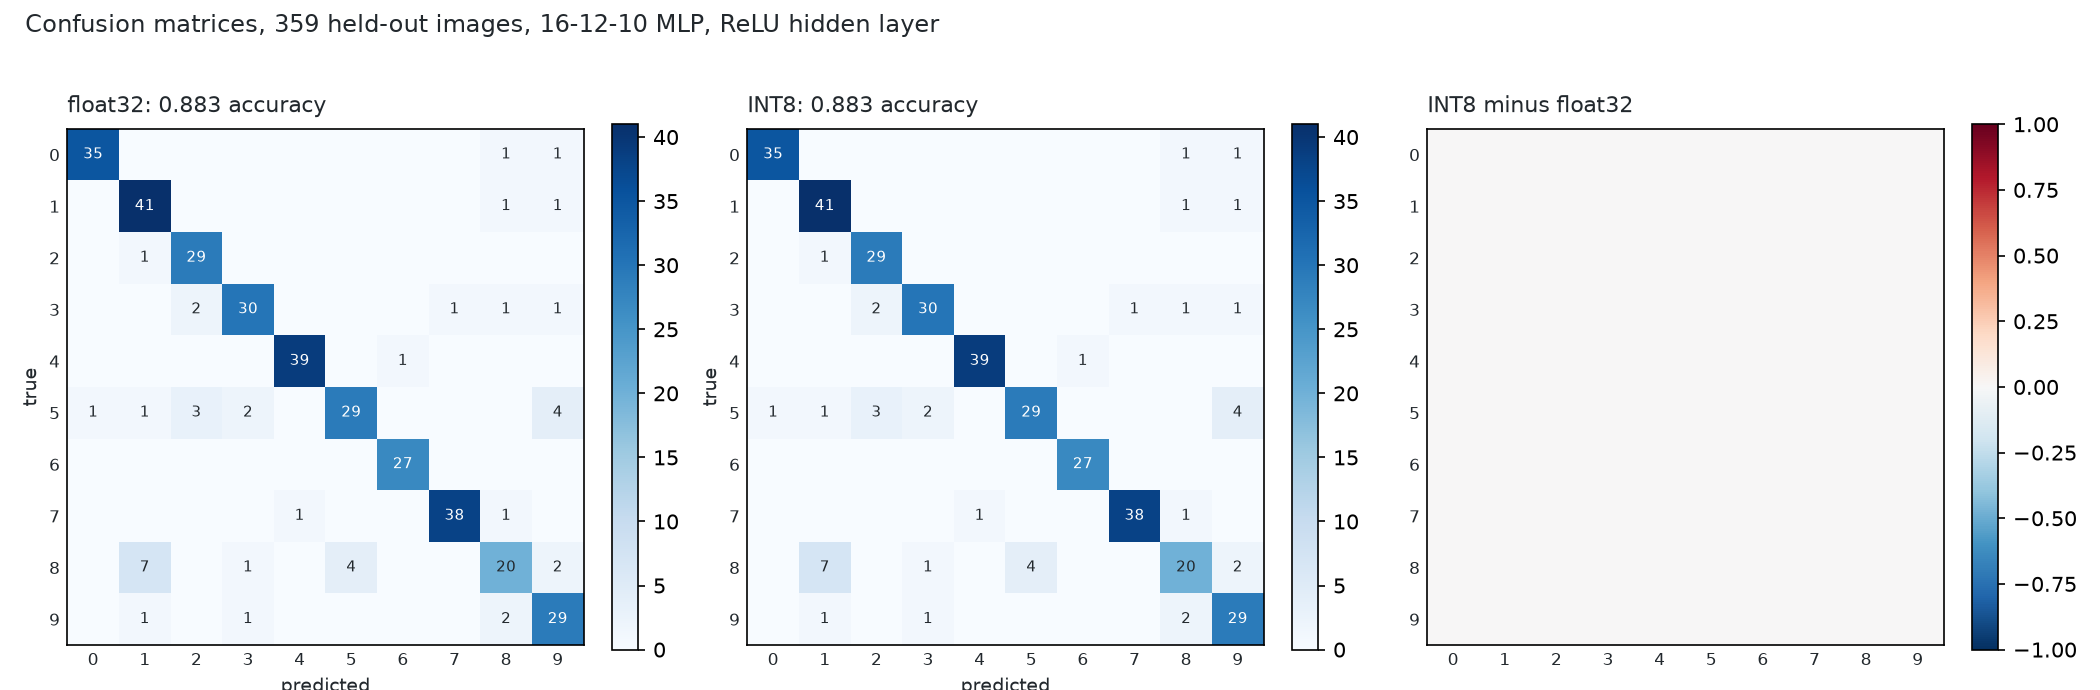
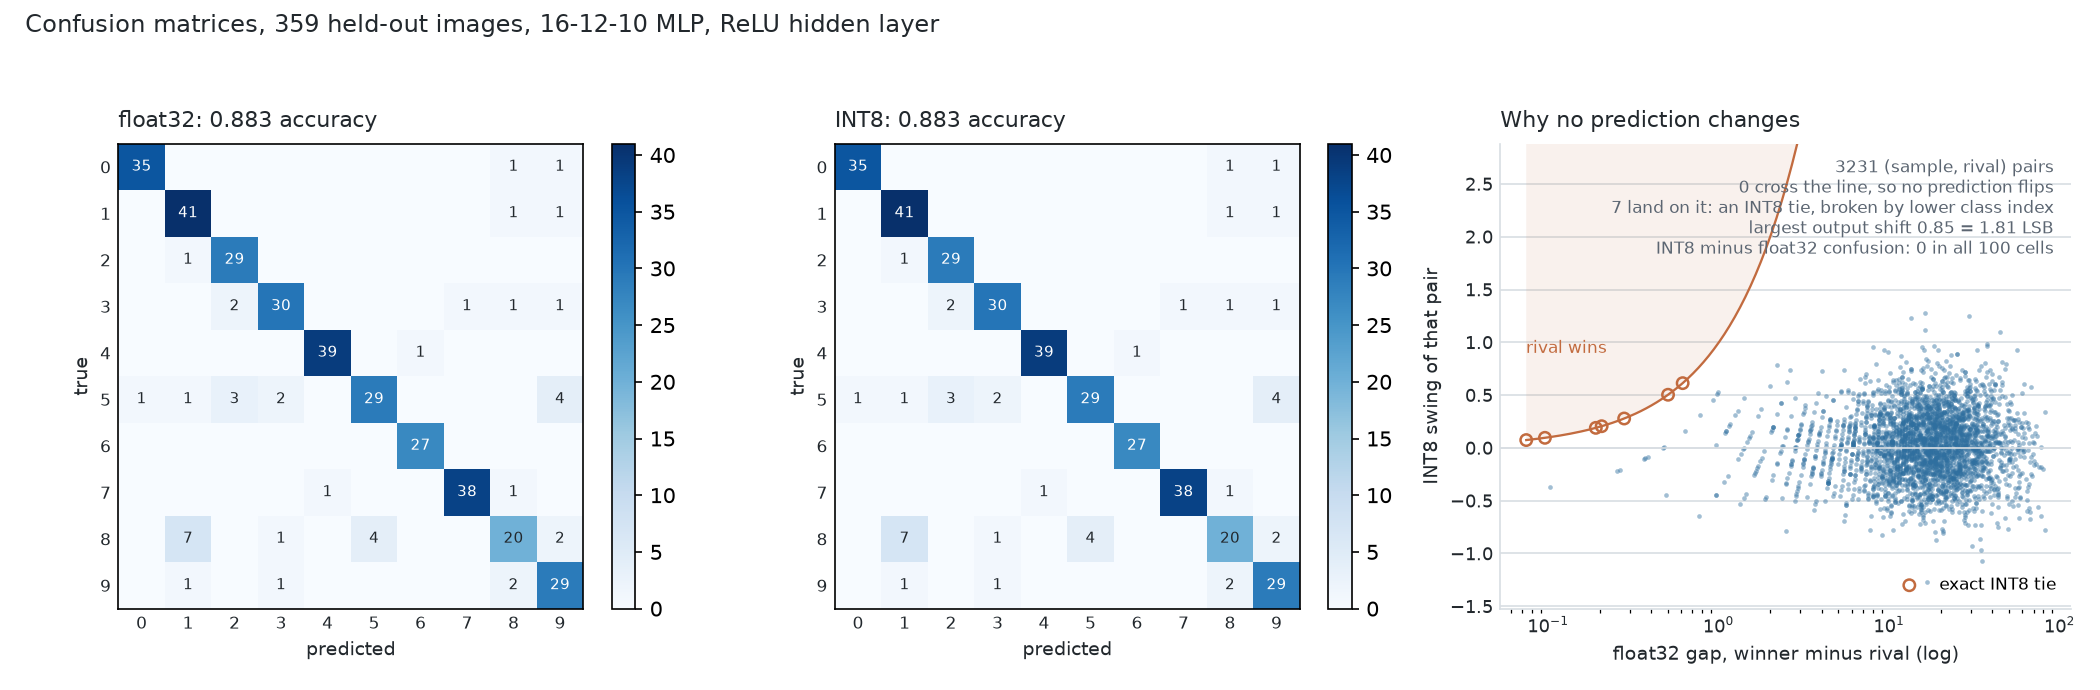
fix(figures): replace the blank confusion-difference panel with the mechanism
The third panel plotted ci - cf as a heat map. That matrix is exactly
zero, because quantization changes no prediction on any of the 359
held-out images, so lim = max(1, 0) pinned the scale to -1..+1, RdBu_r
painted every cell its neutral mid-tone, and the label loop was gated on
if diff[i, j], which is false everywhere. The panel rendered as an empty
grey grid next to two populated ones and read as a broken figure, which
undersold the result it was meant to show.

It now plots the decision margin instead: for each of the 3231 (sample,
rival class) pairs, the float32 gap against the adverse swing
quantization applies to that pair. A prediction holds while the swing
stays under the gap. Measured from the committed model, whose outputs the
RTL reproduces bit-exactly: the output layer moves by up to 0.85, 1.81
LSB of the 0.468 output scale, and no pair crosses the line.

Seven land exactly on it, which the old panel could not have shown.
Those samples tie on the INT8 code, so the winner comes from argmax
taking the lowest class index rather than from arithmetic. It agrees with
float32 in all seven; the opposite tie-break gives 0.8858 rather than
0.8830. The README now says so next to the delta-of-zero claim.

diff --git a/scripts/plot_demo.py b/scripts/plot_demo.py
@@ -4,7 +4,9 @@
 """Draw the quantization figures from the demo model and the RTL trace.
 
 Produces:
-  docs/img/demo_confusion.png    float32 and INT8 confusion matrices side by side
+  docs/img/demo_confusion.png    float32 and INT8 confusion matrices side by
+                                 side, plus the decision margins that explain
+                                 why the two agree
   docs/img/demo_per_class.png    per-class accuracy, float32 against INT8
   docs/img/demo_histograms.png   activation distributions before and after
                                  quantization, for the input, the hidden layer
@@ -53,7 +55,76 @@ def style(ax, title: str, xlabel: str = "", ylabel: str = "") -> None:
     ax.tick_params(colors=C_TEXT, labelsize=8.5, length=0)
 
 
-def plot_confusion(res) -> None:
+def decision_margin(z):
+    """Per (sample, rival class) pair: the float32 gap and what quantization
+    does to it.
+
+    For the float32 winner `t` and any rival `j`, the INT8 network changes the
+    prediction exactly when the dequantized output of `j` overtakes `t`, that
+    is when `pert[j] - pert[t]` exceeds the float32 gap `logit[t] - logit[j]`.
+    Returns the gap, that adverse swing, and the per-class shift.
+    """
+    lg = z["logits_f"]
+    deq = (z["q_o_ref"].astype(float) - float(z["zp_o"])) * float(z["s_o"])
+    pert = deq - lg
+    top1 = lg.argmax(1)
+    gap, swing = [], []
+    for i in range(lg.shape[0]):
+        t = top1[i]
+        for j in range(lg.shape[1]):
+            if j != t:
+                gap.append(lg[i, t] - lg[i, j])
+                swing.append(pert[i, j] - pert[i, t])
+    return np.array(gap), np.array(swing), pert
+
+
+def plot_margin_panel(ax, z, diff, lsb: float) -> None:
+    """Third confusion panel: why quantization changes no prediction.
+
+    The obvious panel here is the confusion difference as a heat map, but the
+    difference is the all-zero matrix, and an all-zero heat map is a uniform
+    grey grid with no labels: correct, and indistinguishable from a broken
+    figure. The mechanism is the interesting part. Quantization does move the
+    output layer; the decision survives because the float32 gap to every rival
+    class is wider than the movement, and this panel shows the two against
+    each other.
+    """
+    gap, swing, pert = decision_margin(z)
+    tie = swing >= gap
+    flip = swing > gap
+
+    xs = np.logspace(np.log10(gap.min()), np.log10(gap.max()), 200)
+    ax.fill_between(xs, xs, max(swing.max(), gap.max()) * 1.2,
+                    color=C_ERR, alpha=0.09, linewidth=0)
+    ax.plot(xs, xs, color=C_ERR, linewidth=1.1)
+    ax.axhline(0, color=C_GRID, linewidth=0.8)
+    ax.scatter(gap[~tie], swing[~tie], s=5, color=C_I8, alpha=0.45,
+               linewidth=0)
+    ax.scatter(gap[tie], swing[tie], s=30, facecolor="none", edgecolor=C_ERR,
+               linewidth=1.2, zorder=3, label="exact INT8 tie")
+    ax.set_xscale("log")
+    # Headroom above the cloud for the annotation block, so it never sits on
+    # top of a data point.
+    ax.set_ylim(swing.min() - 0.25, swing.max() + 1.6)
+    style(ax, "Why no prediction changes",
+          "float32 gap, winner minus rival (log)", "INT8 swing of that pair")
+    # Top right: the point cloud stays below y = 1.05 and the shaded flip
+    # region hugs the left edge, so this is the only corner that is free.
+    ax.annotate(
+        f"{gap.size} (sample, rival) pairs\n"
+        f"{flip.sum()} cross the line, so no prediction flips\n"
+        f"{tie.sum()} land on it: an INT8 tie, broken by lower class index\n"
+        f"largest output shift {np.abs(pert).max():.2f} = "
+        f"{np.abs(pert).max() / lsb:.2f} LSB\n"
+        f"INT8 minus float32 confusion: 0 in all {diff.size} cells",
+        (0.97, 0.97), xycoords="axes fraction", va="top", ha="right",
+        fontsize=8, color=MUTED_ANN)
+    ax.annotate("rival wins", (0.045, 0.55), xycoords="axes fraction",
+                fontsize=8, color=C_ERR)
+    ax.legend(frameon=False, fontsize=8, loc="lower right")
+
+
+def plot_confusion(res, z) -> None:
     cf = np.array(res["confusion_float32"])
     ci = np.array(res["confusion_int8"])
     fig, axes = plt.subplots(1, 3, figsize=(14, 4.6),
@@ -77,20 +148,7 @@ def plot_confusion(res) -> None:
                             else C_TEXT)
         fig.colorbar(im, ax=ax, fraction=0.046)
 
-    diff = ci - cf
-    lim = max(1, int(np.abs(diff).max()))
-    im = axes[2].imshow(diff, cmap="RdBu_r", vmin=-lim, vmax=lim)
-    axes[2].set_title("INT8 minus float32", fontsize=10.5, color=C_TEXT,
-                      loc="left", pad=8)
-    axes[2].set_xticks(range(10))
-    axes[2].set_yticks(range(10))
-    axes[2].tick_params(colors=C_TEXT, labelsize=8, length=0)
-    for i in range(10):
-        for j in range(10):
-            if diff[i, j]:
-                axes[2].text(j, i, f"{diff[i, j]:+d}", ha="center",
-                             va="center", fontsize=7, color=C_TEXT)
-    fig.colorbar(im, ax=axes[2], fraction=0.046)
+    plot_margin_panel(axes[2], z, ci - cf, res["quantization"]["output_scale"])
     fig.suptitle(f"Confusion matrices, {res['test_samples']} held-out images, "
                  f"{res['network']}", fontsize=11.5, color=C_TEXT, x=0.012,
                  ha="left")
@@ -205,7 +263,7 @@ def main() -> int:
     IMG.mkdir(parents=True, exist_ok=True)
     res = json.loads((REPO / "docs" / "demo_results.json").read_text())
     z = np.load(DATA / "demo_model.npz")
-    plot_confusion(res)
+    plot_confusion(res, z)
     plot_per_class(res)
     plot_histograms(z, res)
     plot_requant_error()

diff --git a/README.md b/README.md
@@ -534,6 +534,24 @@ the requantized INT8 activations of layer 1 fed back in as the input to layer 2.
 
 ![confusion](docs/img/demo_confusion.png)
 
+The first two panels are the confusion matrices, and they are identical because
+quantization changed no prediction on any of the 359 held-out images. The third
+panel is why. For every one of the 3231 (sample, rival class) pairs it plots the
+float32 gap between the winning class and that rival against the amount
+quantization moves that pair, using the committed quantized model whose outputs
+`test_demo.py` shows the RTL reproduces bit-exactly. A prediction survives
+wherever the movement stays below the gap. Quantization is not a no-op here: it
+shifts the output layer by up to 0.85, which is 1.81 LSB of the 0.468 output
+scale. No pair crosses the line.
+
+Seven land exactly on it. Those are samples where two classes come out to the
+same INT8 code, so the winner is settled by the tie-break rather than by
+arithmetic, and `argmax` taking the lowest class index agrees with float32 in
+all seven. Breaking those ties the other way would change 7 of the 359
+predictions and give 0.8858 rather than 0.8830. The exact match of the two
+accuracies is therefore a property of this argmax convention as well as of the
+quantization, which is worth knowing before quoting a delta of zero.
+
 ![per class](docs/img/demo_per_class.png)
 
 ![histograms](docs/img/demo_histograms.png)
